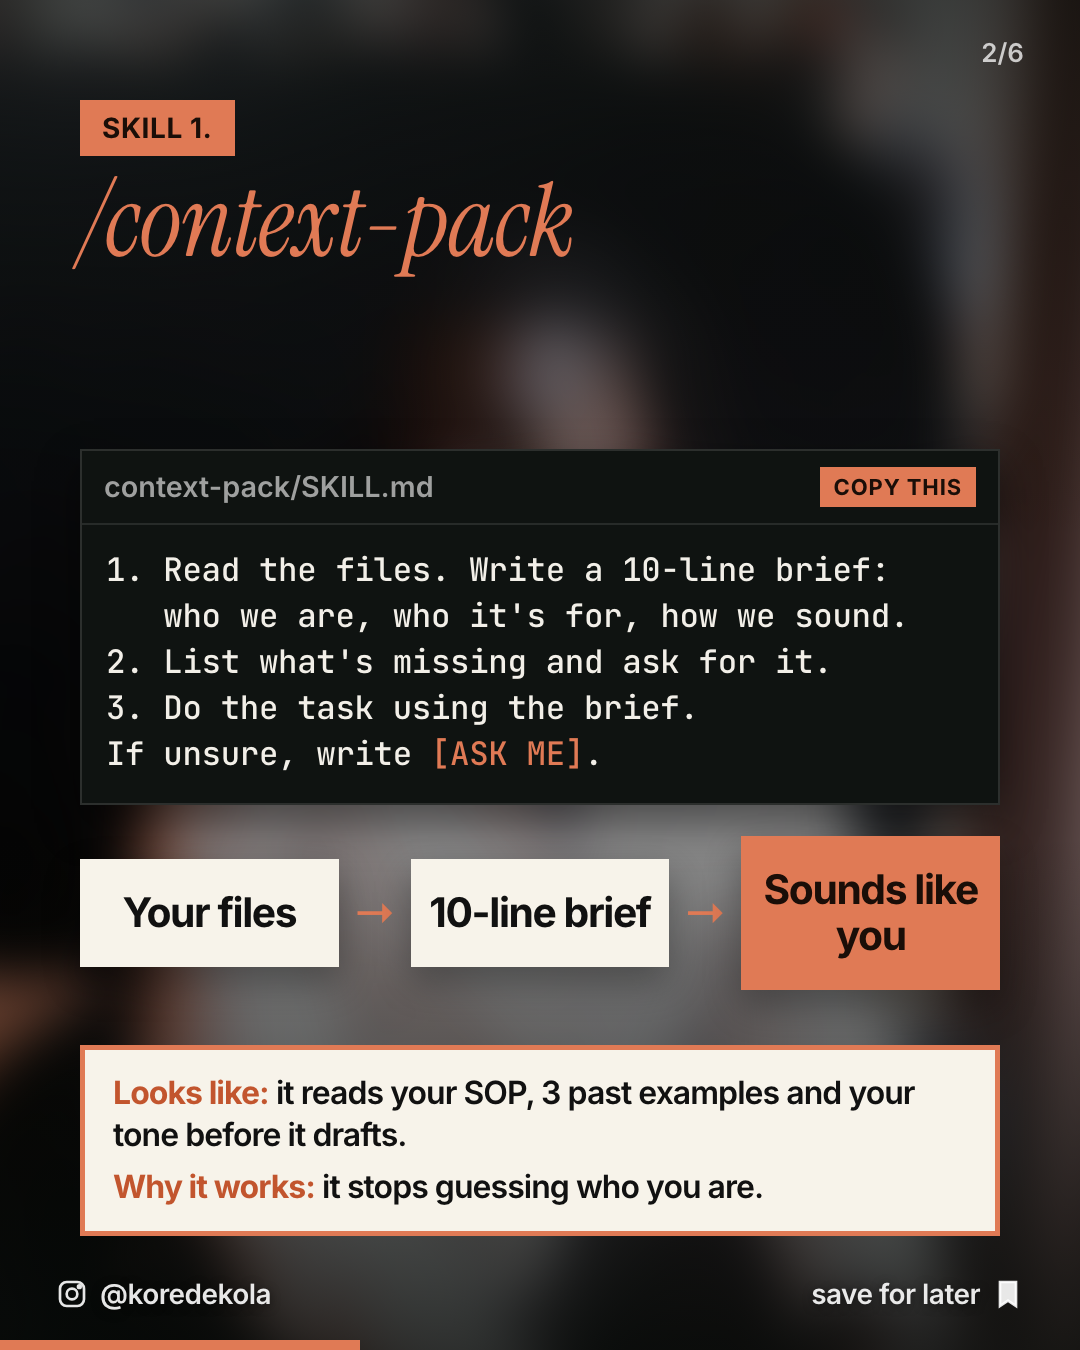
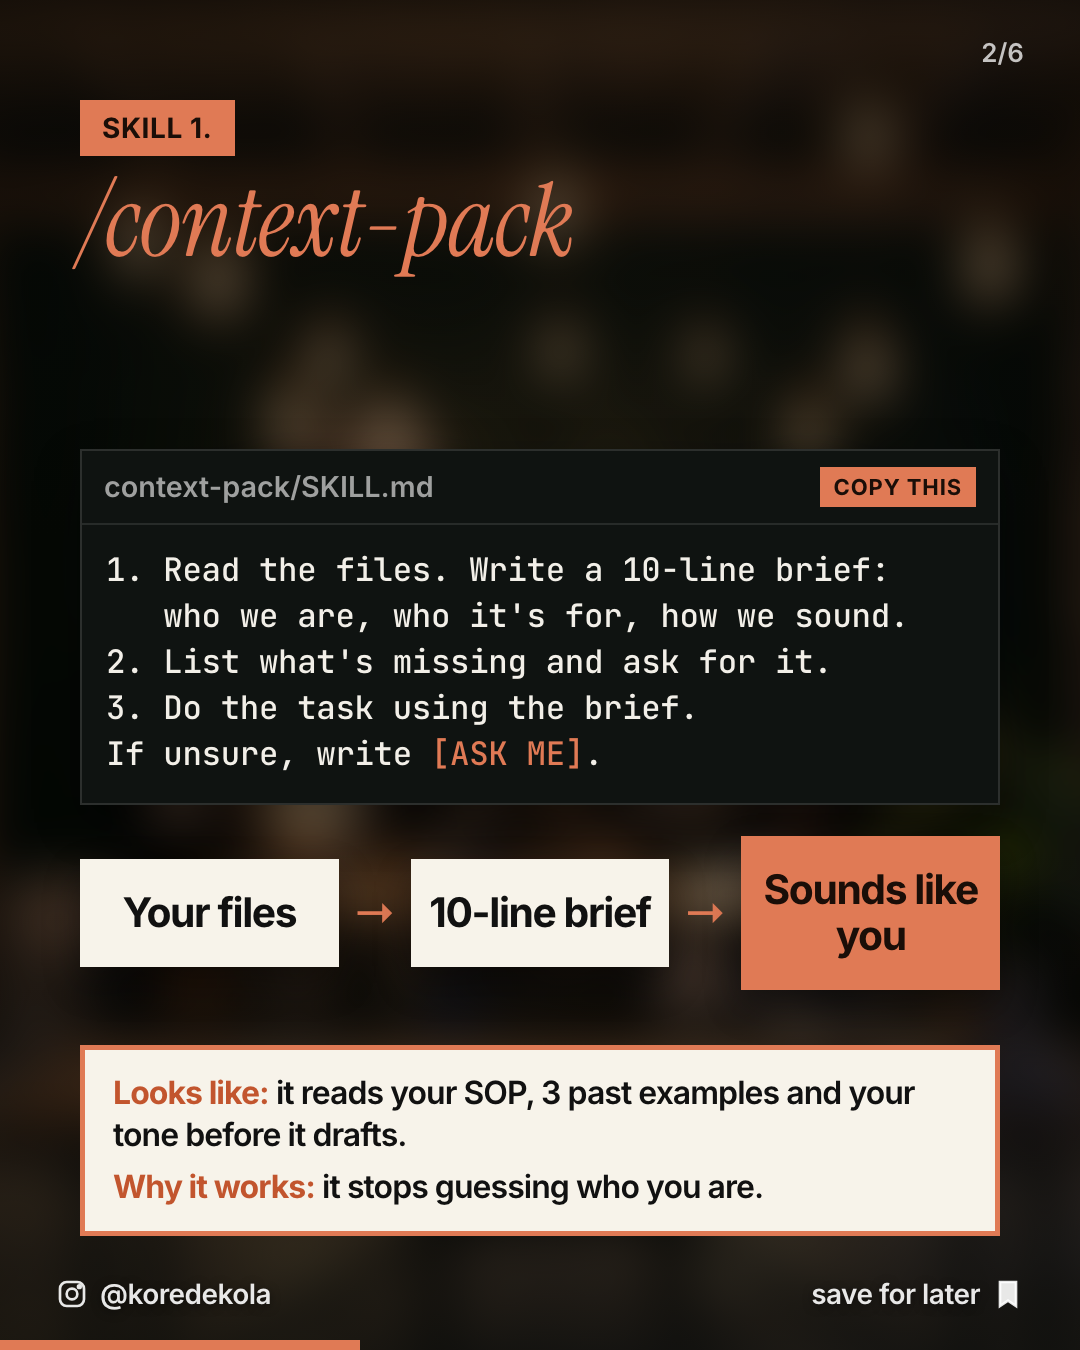
Personal carousels: new backgrounds behind Korede (loft, morning apartment, warm studio, library), cutout colour grade

diff --git a/templates/photo-carousel/index.html b/templates/photo-carousel/index.html
@@ -194,7 +194,7 @@ window.showSlide = (i) => {
   const ph = s.photo ? `<div class="ph${s.photo.blur ? ' blur' : ''}" style="background-image:url('${R(s.photo.src)}');background-position:${s.photo.pos || '50% 30%'};background-size:${s.photo.size || 'cover'};${s.photo.blur && s.photo.blur !== true ? `--bl:${s.photo.blur}px` : ''}${s.photo.bright ? `;--br:${s.photo.bright}` : ''}"></div><div class="shade" style="--top:${s.photo.dim?.top ?? .55};--bot:${s.photo.dim?.bot ?? .7}"></div>` : '';
   const shadeG = s.photo ? `linear-gradient(180deg, rgba(8,12,10,${s.photo.dim?.top ?? .55}) 0%, rgba(8,12,10,0) 40%, rgba(8,12,10,0) 62%, rgba(8,12,10,${s.photo.dim?.bot ?? .7}) 100%)` : '';
   const front = s.photo && s.photo.front ? `<div class="ph front" style="background-image:${shadeG},url('${R(s.photo.src)}');background-size:100% 100%,${s.photo.size || 'cover'};background-position:0 0,${s.photo.pos || '50% 30%'};-webkit-mask-image:url('${s.photo.frontUrl || R(s.photo.front)}');-webkit-mask-size:${s.photo.size || 'cover'};-webkit-mask-position:${s.photo.pos || '50% 30%'};-webkit-mask-repeat:no-repeat"></div>` : '';
-  const cut = s.cut ? `<img class="cut${s.cut.front ? ' front' : ''}" src="${R(s.cut.src)}" style="left:${s.cut.x}px;top:${s.cut.y}px;height:${s.cut.h}px;${s.cut.flip ? 'transform:scaleX(-1)' : ''}">` : '';
+  const cut = s.cut ? `<img class="cut${s.cut.front ? ' front' : ''}" src="${R(s.cut.src)}" style="left:${s.cut.x}px;top:${s.cut.y}px;height:${s.cut.h}px;${s.cut.flip ? 'transform:scaleX(-1);' : ''}${s.cut.grade ? `filter:${s.cut.grade} drop-shadow(0 30px 50px rgba(0,0,0,.5));` : ''}">` : '';
   const blocks = s.blocks ? `<div class="blocks" style="top:${s.blocksY ?? 110}px;--off:${s.off ?? 30}px">${s.blocks.map((b) => `<div class="blk ${b.style || 'acc'}" style="${b.size ? `--fs:${b.size}px` : ''}">${fmt(b.text)}</div>`).join('')}</div>` : '';
   const pay = s.pay ? `<div class="pay" style="top:${s.pay.y ?? 930}px;${s.pay.size ? `font-size:${s.pay.size}px` : ''}">${fmt(s.pay.text)}</div>` : '';
   const label = s.label ? `<div class="label" style="top:${s.labelY ?? 120}px">${esc(s.label)}</div>` : '';
